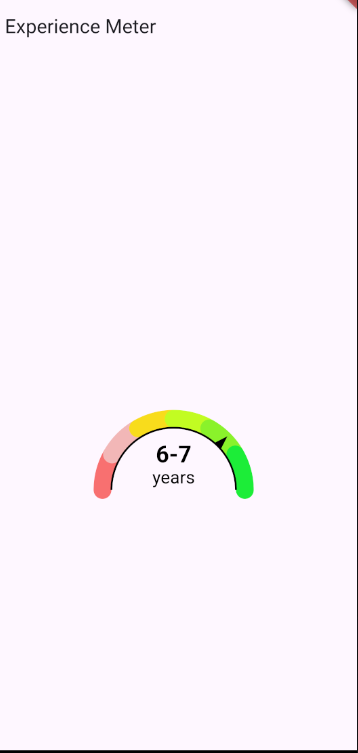
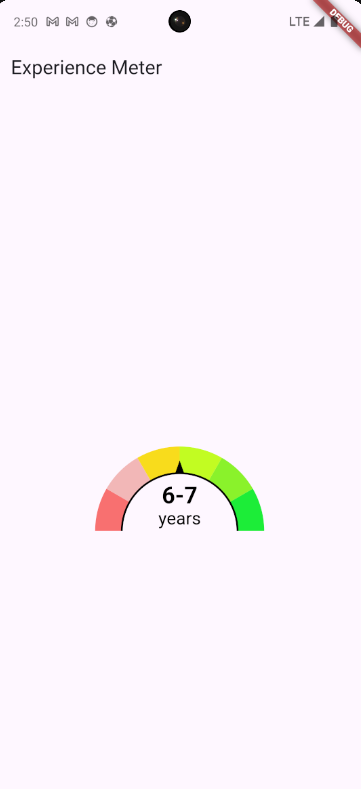
experience meter ui change

diff --git a/lib/experience_meter.dart b/lib/experience_meter.dart
@@ -29,12 +29,12 @@ class ExperienceMeter extends CustomPainter {
 
     Paint paint = Paint()
       ..style = PaintingStyle.stroke
-      ..strokeWidth = 20;
+      ..strokeWidth = 30; // Increased stroke width
 
     // Draw the segments with rounded ends
     for (Color color in segmentColors) {
       paint.color = color;
-      paint.strokeCap = StrokeCap.round;
+      paint.strokeCap = StrokeCap.butt;
       canvas.drawArc(
         Rect.fromCircle(
             center: Offset(size.width / 2, size.height), radius: radius),

diff --git a/CHANGELOG.md b/CHANGELOG.md
@@ -30,3 +30,9 @@
 ### Added
 - Added github profile
 - Added app screen shot
+
+## 0.0.9 - 2024-07-31
+
+### UI Change
+- Design change of the meter
+- 
